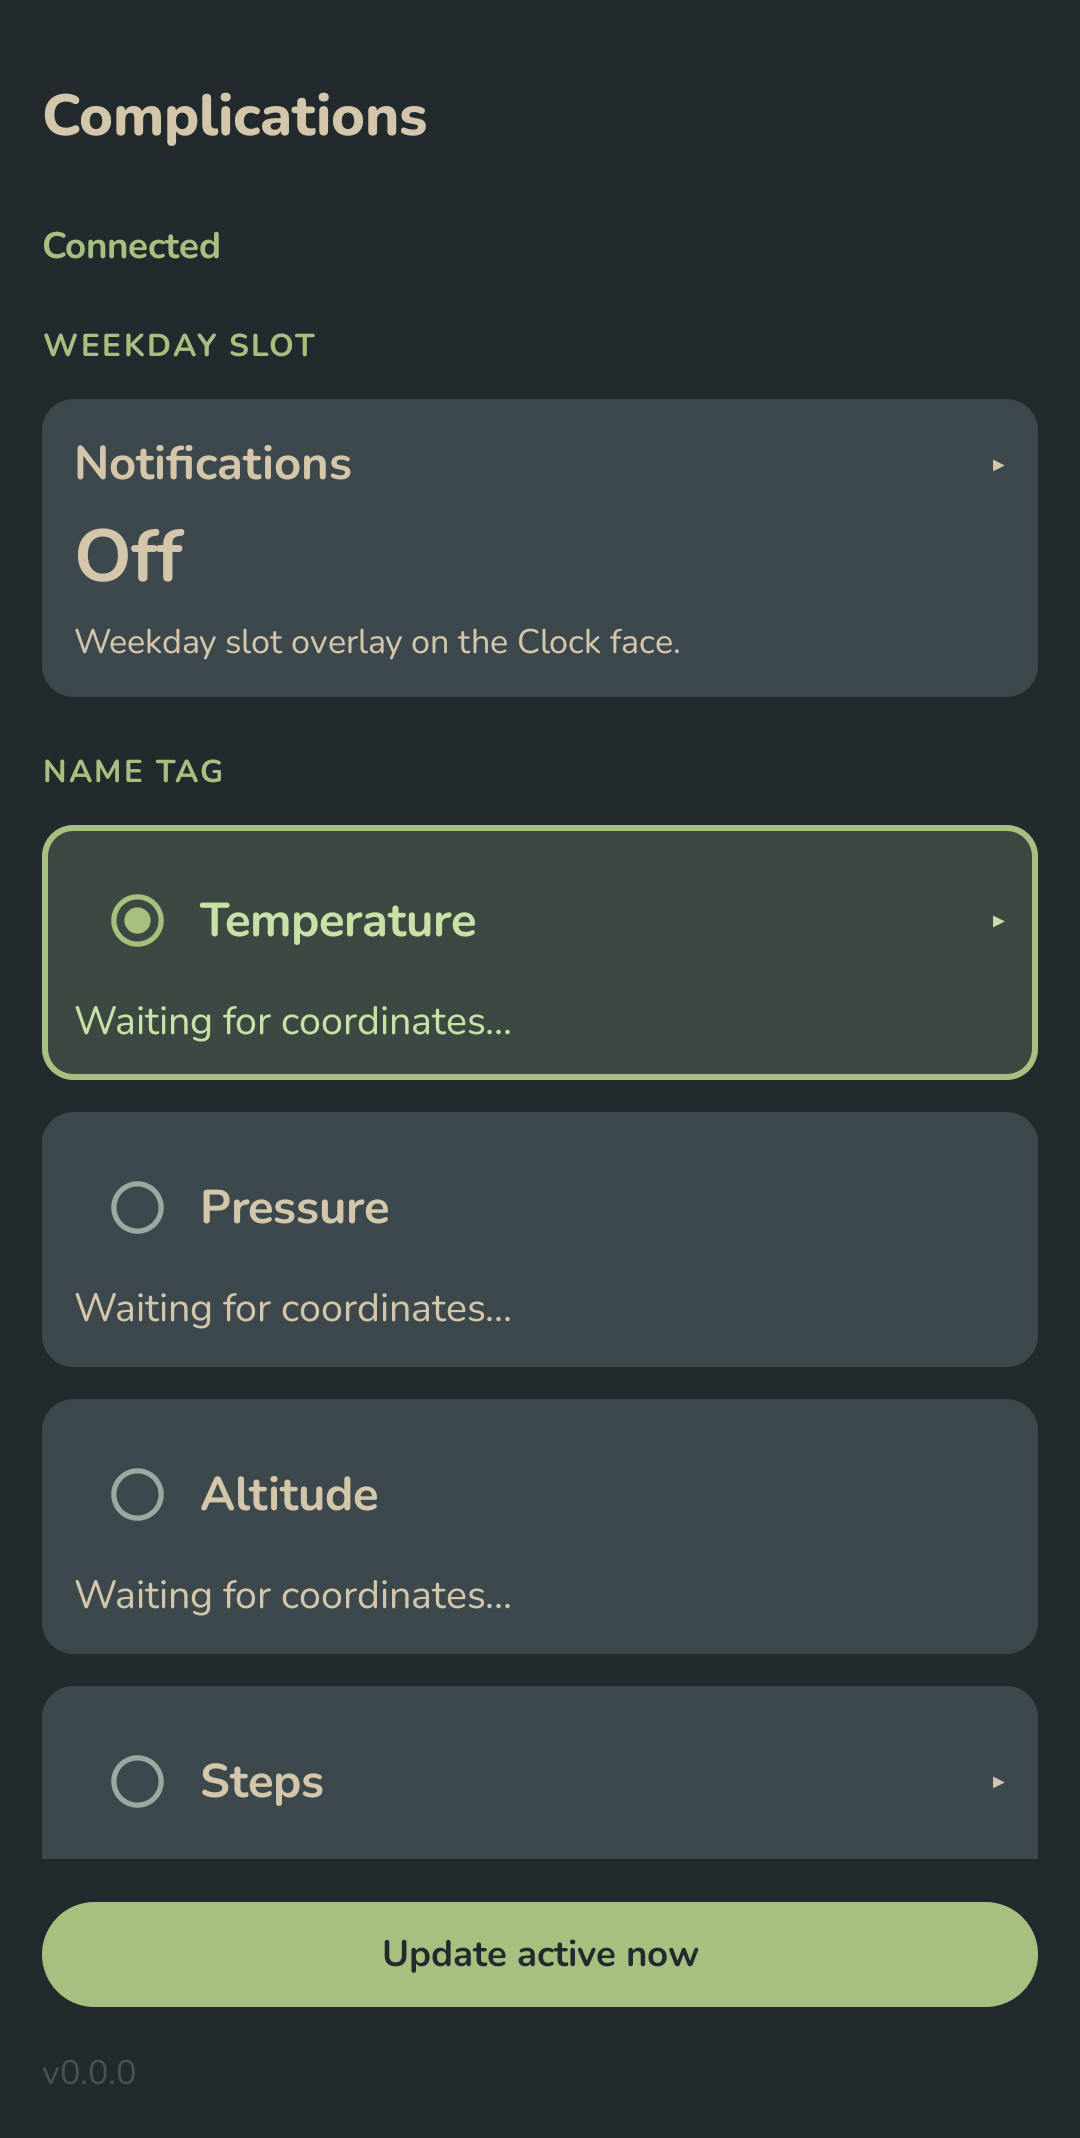
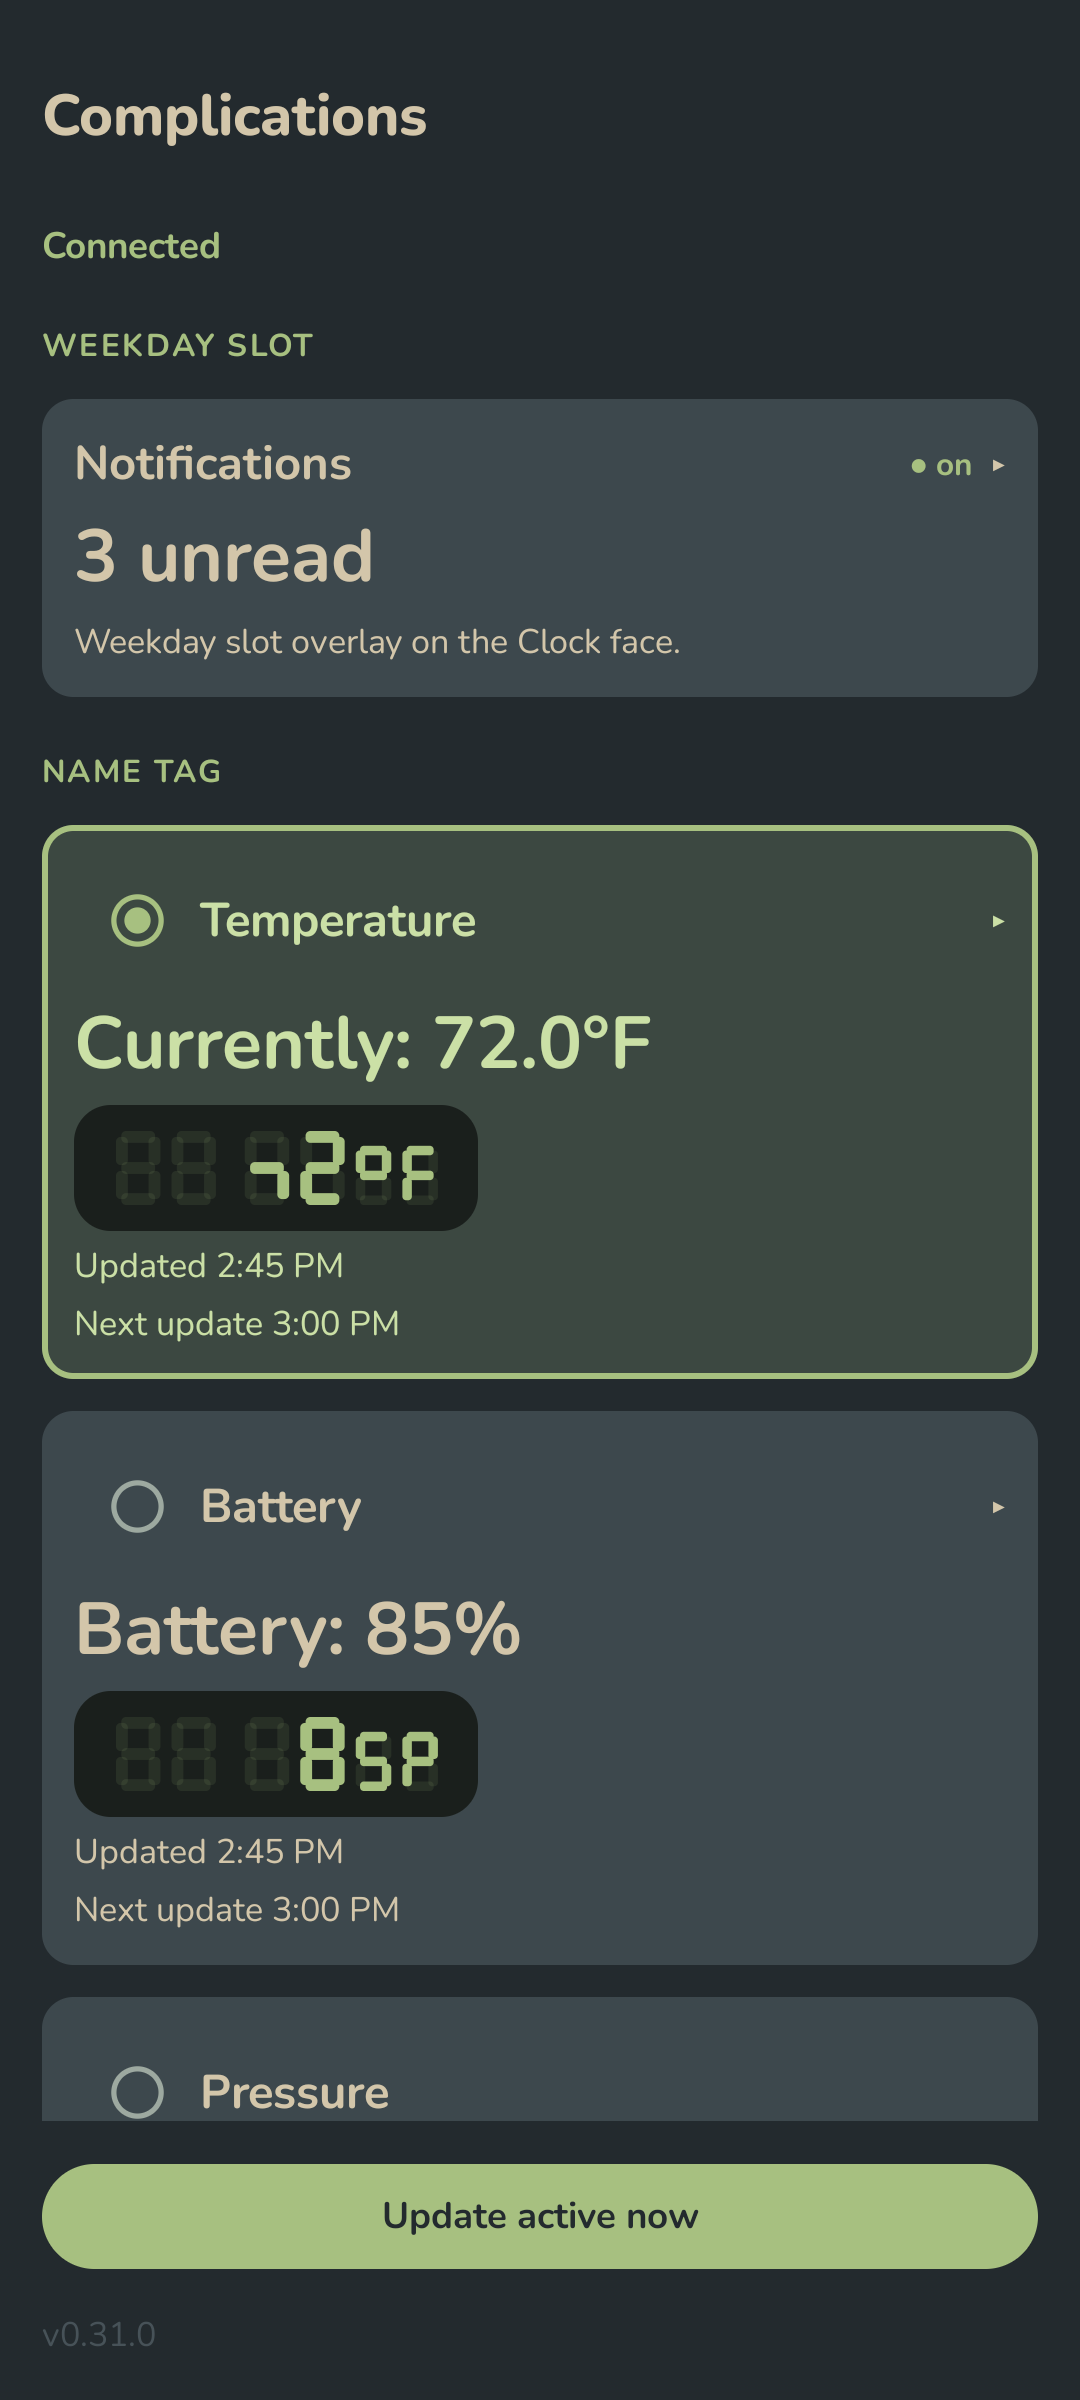
docs(screenshots): repopulate README home shot — every face shows a real value
The home fixture only set watch/connection, so the README screenshot rendered
'Off' notifications and 'Waiting for coordinates' placeholders (and predated the
Battery card). Populate ScreenFakes.homeState with a representative reading for
every face — Notifications '3 unread', Temperature 72.0°F, Battery 85%, Pressure
1013 hPa, Altitude 1609 m, Steps 8,432 — using the exact nameplate payloads and
controller human-strings. Regenerated docs/screenshots/home.png (now shows the
Battery card directly under Temperature).

Changed region(s): [[0.0306, 0.0926, 0.9778, 0.9878], [0.0306, 0.0309, 0.3972, 0.0617]]

diff --git a/app/src/screenFixtures/kotlin/com/blizzardcaron/freeolleefaces/screens/ScreenFakes.kt b/app/src/screenFixtures/kotlin/com/blizzardcaron/freeolleefaces/screens/ScreenFakes.kt
@@ -8,6 +8,7 @@ import com.blizzardcaron.freeolleefaces.activity.ActivityUnit
 import com.blizzardcaron.freeolleefaces.activity.TrackPoint
 import com.blizzardcaron.freeolleefaces.alarm.Alarm
 import com.blizzardcaron.freeolleefaces.ble.ConnectionStatus
+import com.blizzardcaron.freeolleefaces.format.BatteryReadout
 import com.blizzardcaron.freeolleefaces.timer.TimerSet
 import com.blizzardcaron.freeolleefaces.timer.TimerSlot
 import com.blizzardcaron.freeolleefaces.ui.ActivityCallbacks
@@ -16,6 +17,7 @@ import com.blizzardcaron.freeolleefaces.ui.ActivityMetricsConfigCallbacks
 import com.blizzardcaron.freeolleefaces.ui.AlarmsCallbacks
 import com.blizzardcaron.freeolleefaces.ui.HomeCallbacks
 import com.blizzardcaron.freeolleefaces.ui.HomeState
+import com.blizzardcaron.freeolleefaces.ui.PreviewState
 import com.blizzardcaron.freeolleefaces.ui.QuickTimerState
 import com.blizzardcaron.freeolleefaces.ui.SettingsCallbacks
 import com.blizzardcaron.freeolleefaces.ui.TimerSetsCallbacks
@@ -24,11 +26,44 @@ import com.blizzardcaron.freeolleefaces.ui.TimerSetsCallbacks
 object ScreenFakes {
     val unit = ActivityUnit.METRIC
 
+    // Every face populated with a representative reading so the README hero shot shows real
+    // values (no "Off" / "Waiting for coordinates" placeholders). Payloads are the exact 6-cell
+    // nameplate strings DisplayFormatter would emit; human strings match the controller wording.
     val homeState = HomeState(
         watchLabel = "Watch: Ollee",
         watchSelected = true,
         connectionStatus = ConnectionStatus.Connected,
-        versionLabel = "v0.0.0",
+        versionLabel = "v0.31.0",
+
+        locationLabel = "Location: 40.015, -105.270",
+        locationFreshness = "just now",
+        lat = "40.015",
+        lng = "-105.270",
+
+        tempPreview = PreviewState.Ready("  72#F", "Currently: 72.0°F"),
+        tempUpdated = "Updated 2:45 PM",
+        tempNext = "Next update 3:00 PM",
+
+        batteryReadout = BatteryReadout.PERCENT,
+        batteryPreview = PreviewState.Ready("   85P", "Battery: 85%"),
+        batteryUpdated = "Updated 2:45 PM",
+        batteryNext = "Next update 3:00 PM",
+
+        pressurePreview = PreviewState.Ready("  1013", "Currently: 1013.0 hPa"),
+        pressureUpdated = "Updated 2:45 PM",
+        pressureNext = "Next update 3:00 PM",
+
+        altitudePreview = PreviewState.Ready(" 1609m", "Elevation: 1609 m"),
+        altitudeUpdated = "Updated 2:45 PM",
+        altitudeNext = "Next update 3:00 PM",
+
+        stepsPreview = PreviewState.Ready("  8432", "Today: 8,432 steps"),
+        stepsUpdated = "Updated 2:45 PM",
+        stepsHealthGranted = true,
+
+        notificationCount = 3,
+        notificationAccessGranted = true,
+        notificationsEnabled = true,
     )
     val homeCallbacks = HomeCallbacks(
         onActivate = {},